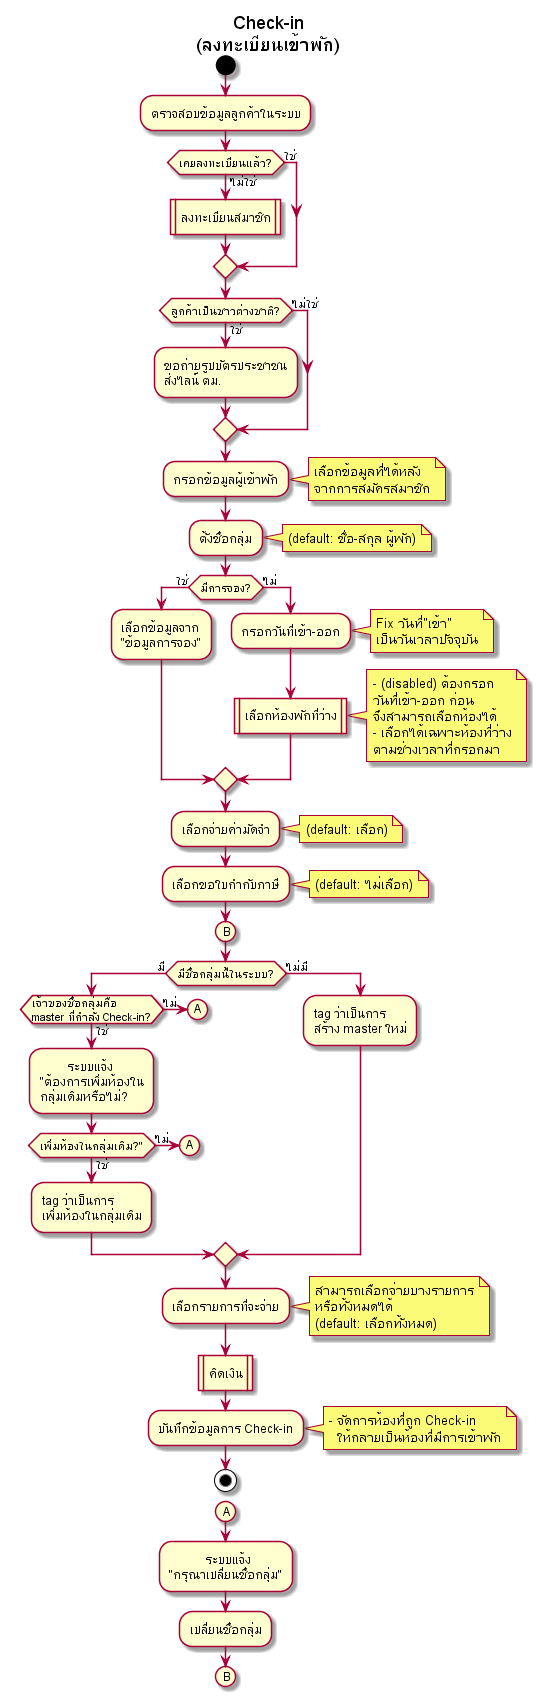
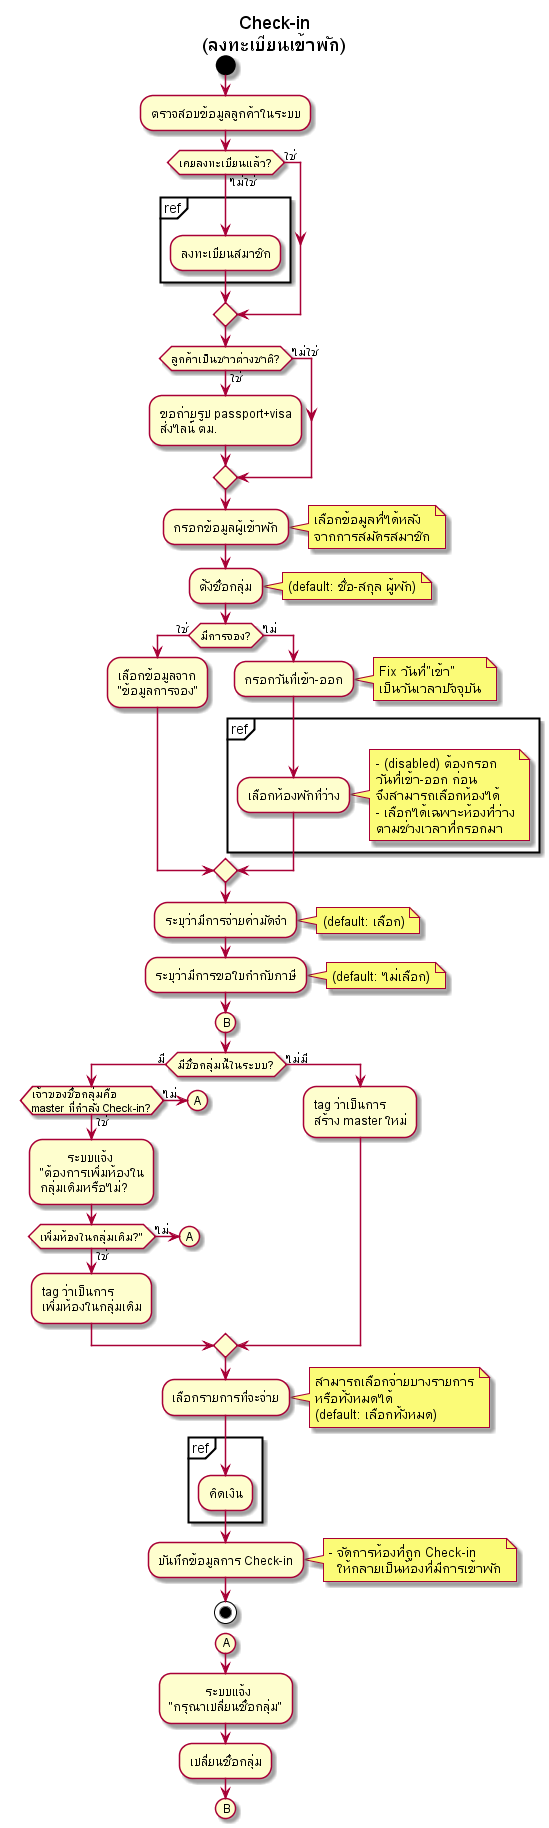
fixed

Changed region(s): [[0.0298, 0.0, 1.0, 1.0]]

diff --git a/activity-diagram/Check-in/Check-in.md b/activity-diagram/Check-in/Check-in.md
@@ -5,12 +5,14 @@ start
 :ตรวจสอบข้อมูลลูกค้าในระบบ;
 
 if (เคยลงทะเบียนแล้ว?) then (ไม่ใช่)
-    :ลงทะเบียนสมาชิก|
+    partition ref {
+        :ลงทะเบียนสมาชิก;
+    }
 else (ใช่)
 endif
 
 if (ลูกค้าเป็นชาวต่างชาติ?) then (ใช่)
-    :ขอถ่ายรูปบัตรประชาชน
+    :ขอถ่ายรูป passport+visa
     ส่งไลน์ ตม.;
 else (ไม่ใช่)
 endif
@@ -33,20 +35,22 @@ else (ไม่)
         เป็นวันเวลาปัจจุบัน
     endnote
 
-    :เลือกห้องพักที่ว่าง|
-    note right
-        - (disabled) ต้องกรอก
-        วันที่เข้า-ออก ก่อน
-        จึงสามารถเลือกห้องได้
-        - เลือกได้เฉพาะห้องที่ว่าง
-        ตามช่วงเวลาที่กรอกมา
-    endnote
+    partition ref {
+        :เลือกห้องพักที่ว่าง;
+        note right
+            - (disabled) ต้องกรอก
+            วันที่เข้า-ออก ก่อน
+            จึงสามารถเลือกห้องได้
+            - เลือกได้เฉพาะห้องที่ว่าง
+            ตามช่วงเวลาที่กรอกมา
+        endnote
+    }
 
 endif
 
-:เลือกจ่ายค่ามัดจำ;
+:ระบุว่ามีการจ่ายค่ามัดจำ;
 note right: (default: เลือก)
-:เลือกขอใบกำกับภาษี;
+:ระบุว่ามีการขอใบกำกับภาษี;
 note right: (default: ไม่เลือก)
 
 (B)
@@ -74,7 +78,10 @@ note right
     (default: เลือกทั้งหมด)
 endnote
 
-:คิดเงิน|
+partition ref {
+    :คิดเงิน;
+}
+
 :บันทึกข้อมูลการ Check-in;
 note right
     - จัดการห้องที่ถูก Check-in 

diff --git a/activity-diagram/Master/Master_Closed.md b/activity-diagram/Master/Master_Closed.md
@@ -3,6 +3,11 @@ title ปิด_Master
 start
 
 :ค้นหา master จากชื่อกลุ่ม;
+note right
+    หรือมาจากการ Check-out/คืนห้อง 
+    ที่เป็นห้องสุดท้ายของ master
+endnote
+
 :เลือก ปิด master;
 note right
     ไม่สามารถปิด master ได้
@@ -10,10 +15,17 @@ note right
 endnote
 
 if (มีค่าใช้จ่าย/ยอดเงินคงค้าง?) then (มี)
-    :คิดเงิน|
-    note left
-        เลือกรายการจ่ายทั้งหมด
-    endnote
+    if (ต้องการชำระเงิน?) then (ใช่)
+        partition ref {
+            :คิดเงิน;
+            note left
+                ชำระยอดคงค้างทั้งหมด
+            endnote
+        }
+    else (ไม่)
+        :ยังไม่สามารถปิด master ได้;
+        end
+    endif
 else (ไม่มี)
 endif
 

diff --git a/activity-diagram/Room_Select/Room_Select.md b/activity-diagram/Room_Select/Room_Select.md
@@ -3,9 +3,14 @@ title เลือกห้องพักที่ว่าง
 start
 
 :ระบุช่วงเวลาที่ต้องการเข้าพัก;
+
 :เลือกห้องพักที่ว่าง;
 note right
     - Filter: ประเภทห้อง, รูปแบบเตียงได้
+endnote
+
+:แก้ไขรายละเอียดห้องพัก;
+note right
     - สามารถแก้ไขรายละเอียดห้องพัก
       เช่น อาหารเช้า, เพิ่มเตียง
       ได้ทั้งรายห้องและทุกห้องที่เลือก

diff --git a/activity-diagram/Master/Master_Bill.md b/activity-diagram/Master/Master_Bill.md
@@ -11,7 +11,9 @@ note right
     (default: จะเลือกรายการทั้งหมด
     ของห้องที่เลือก)
 endnote
-:คิดเงิน|
+partition ref {
+    :คิดเงิน;
+}
 :บันทึกการจ่ายเงิน;
 
 stop
